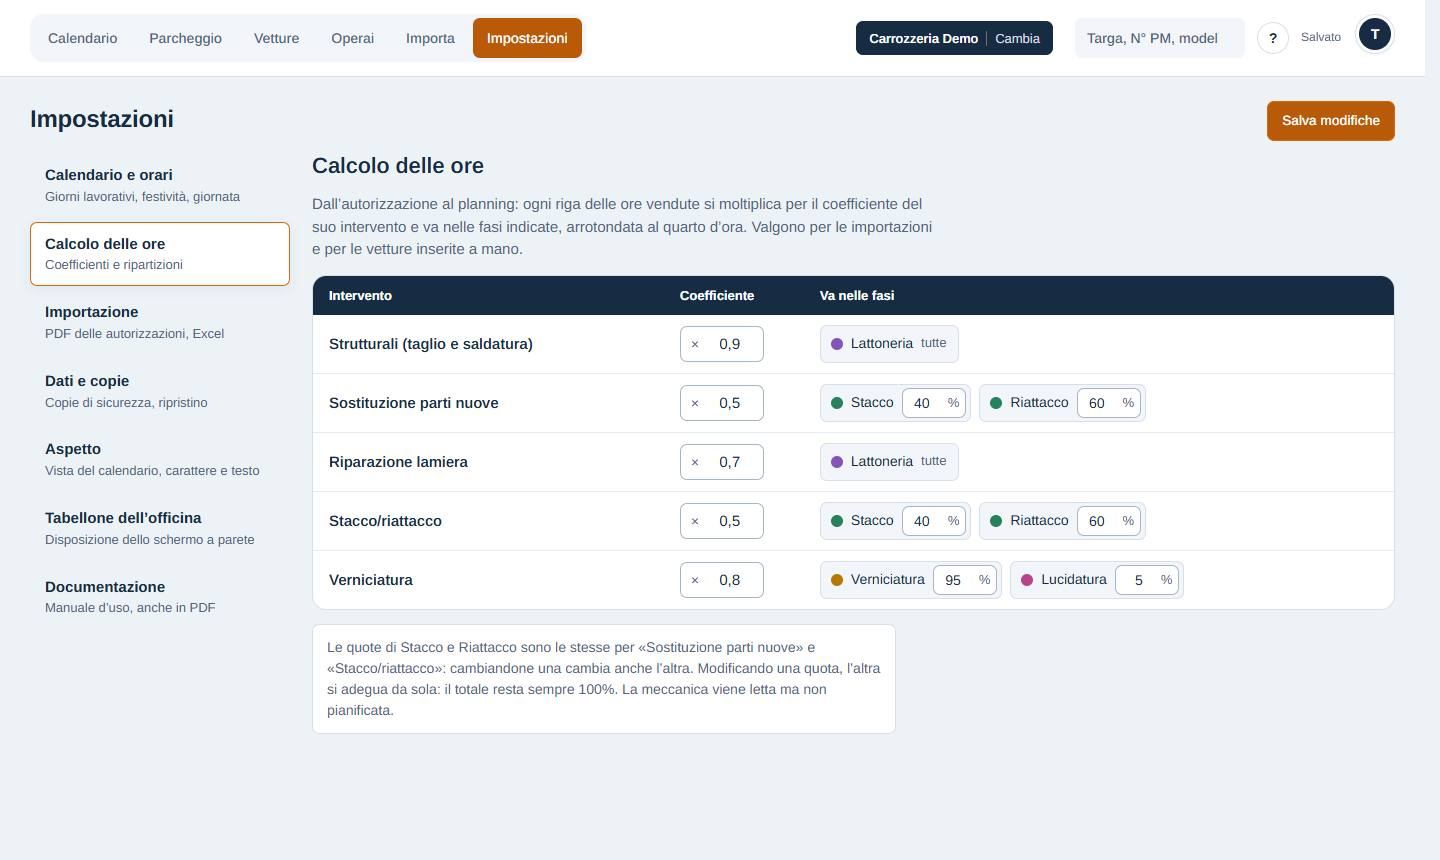
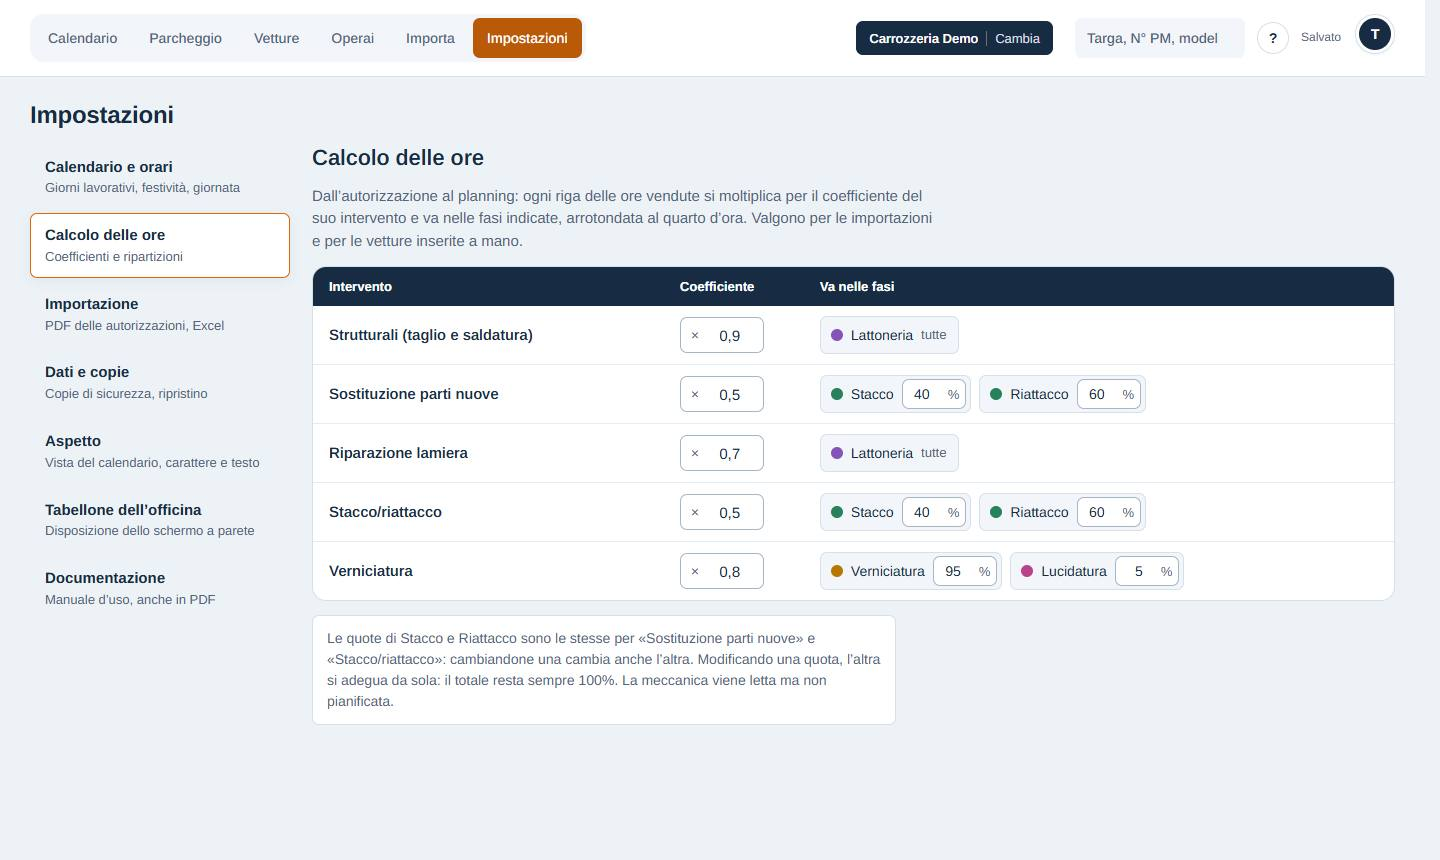
Planner 0.39.0: Impostazioni senza «Salva modifiche»

diff --git a/planner/planning.css b/planner/planning.css
@@ -1337,8 +1337,12 @@ input[type=checkbox].sw:focus-visible{outline:2px solid var(--tape-chiaro);outli
 .pr-r:hover{background:var(--surface-2)}
 @media (max-width:1100px){.calc-wrap{flex-direction:column}.calside{width:100%}}
 /* Impostazioni: «Modifiche salvate» sotto il pulsante, senza spostarlo (2026-11-14) */
-.savewrap{position:relative;display:inline-flex}
-.savewrap #settingsSaveFeedback{position:absolute;top:100%;right:0;margin-top:4px;white-space:nowrap;color:var(--muted)}
+/* «Salvato» accanto al titolo della sezione delle impostazioni (2026-11-15): compare e sparisce da solo; l'errore resta */
+.settesta{display:flex;align-items:baseline;gap:12px}
+.setok{font-size:13px;color:var(--ok);font-weight:600}
+.setok.vis{animation:setok 2.5s ease forwards}
+.setok.bad{color:var(--bad);animation:none}
+@keyframes setok{0%,70%{opacity:1}100%{opacity:0}}
 /* passaggio del mouse uguale per tutti i pulsanti (2026-11-14, richiesta del titolare): bianchi e grigi = fondo grigio e bordo
    più scuro; arancioni (e rossi) = colore un po' più scuro, come nella pagina delle carrozzerie */
 .btn:not(.pri):not(.tape):not(:disabled):hover,#pop .actions .btn:not(.pri):not(.tape):not(:disabled):hover,.week .day .djh .dtog:hover,.rcsel button:not([aria-pressed="true"]):hover{background:var(--grid);border-color:var(--grid-strong)}
